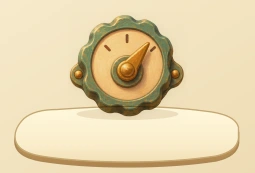
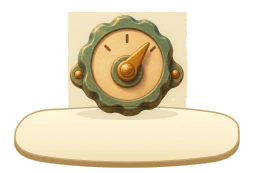
Limit painted button feedback to the object and test stamina shutdown cleanly

diff --git a/docs/production/evidence/field-notes-447/menu-study/export_game_art.py b/docs/production/evidence/field-notes-447/menu-study/export_game_art.py
@@ -7,7 +7,7 @@ import make_field as field
 import tempfile
 import xml.etree.ElementTree as ET
 
-from PIL import Image
+from PIL import Image, ImageChops
 
 HERE = Path(__file__).resolve().parent
 OUT = HERE.parents[4] / "prototypes/swarm-flight/art/honey-pages"
@@ -22,7 +22,7 @@ def remove(root, predicate):
         if predicate(child): root.remove(child)
         else: remove(child, predicate)
 
-def render(root, name, bounds=None):
+def raster(root, bounds=None):
     root = deepcopy(root)
     if bounds:
         x, y, w, h = bounds
@@ -30,8 +30,10 @@ def render(root, name, bounds=None):
         root.set("width", str(w))
         root.set("height", str(h))
     data = subprocess.check_output(["rsvg-convert", "-z", "1.5"], input=ET.tostring(root))
-    image = Image.open(BytesIO(data)).convert("RGBA")
-    image.save(OUT / (name + ".webp"), quality=94, method=4)
+    return Image.open(BytesIO(data)).convert("RGBA")
+
+def render(root, name, bounds=None):
+    raster(root,bounds).save(OUT / (name + ".webp"), quality=94, method=4)
 def outline(name, bounds, transform, contour, width=2.5):
     root = ET.Element(SVG+"svg")
     group = ET.SubElement(root,SVG+"g",{"transform":transform})
@@ -57,7 +59,13 @@ def shared_menu():
         group.append(item)
         bounds=(x-85,y-8,170,115)
         # The illustrations use multiply blending against this exact part of the plate.
-        render(shell,name,bounds)
+        image=raster(shell,bounds)
+        clean=raster(root,bounds)
+        diff=ImageChops.difference(image.convert("RGB"),clean.convert("RGB"))
+        red,green,blue=diff.split()
+        mask=ImageChops.lighter(ImageChops.lighter(red,green),blue).point(lambda v: 255 if v else 0)
+        image.putalpha(mask)
+        image.save(OUT/(name+".webp"),quality=94,method=4)
         focus = next(n for n in root.iter(SVG+"path") if n.get("stroke")=="#315850")
         contour=focus.get("d")
         if name=="fly":
